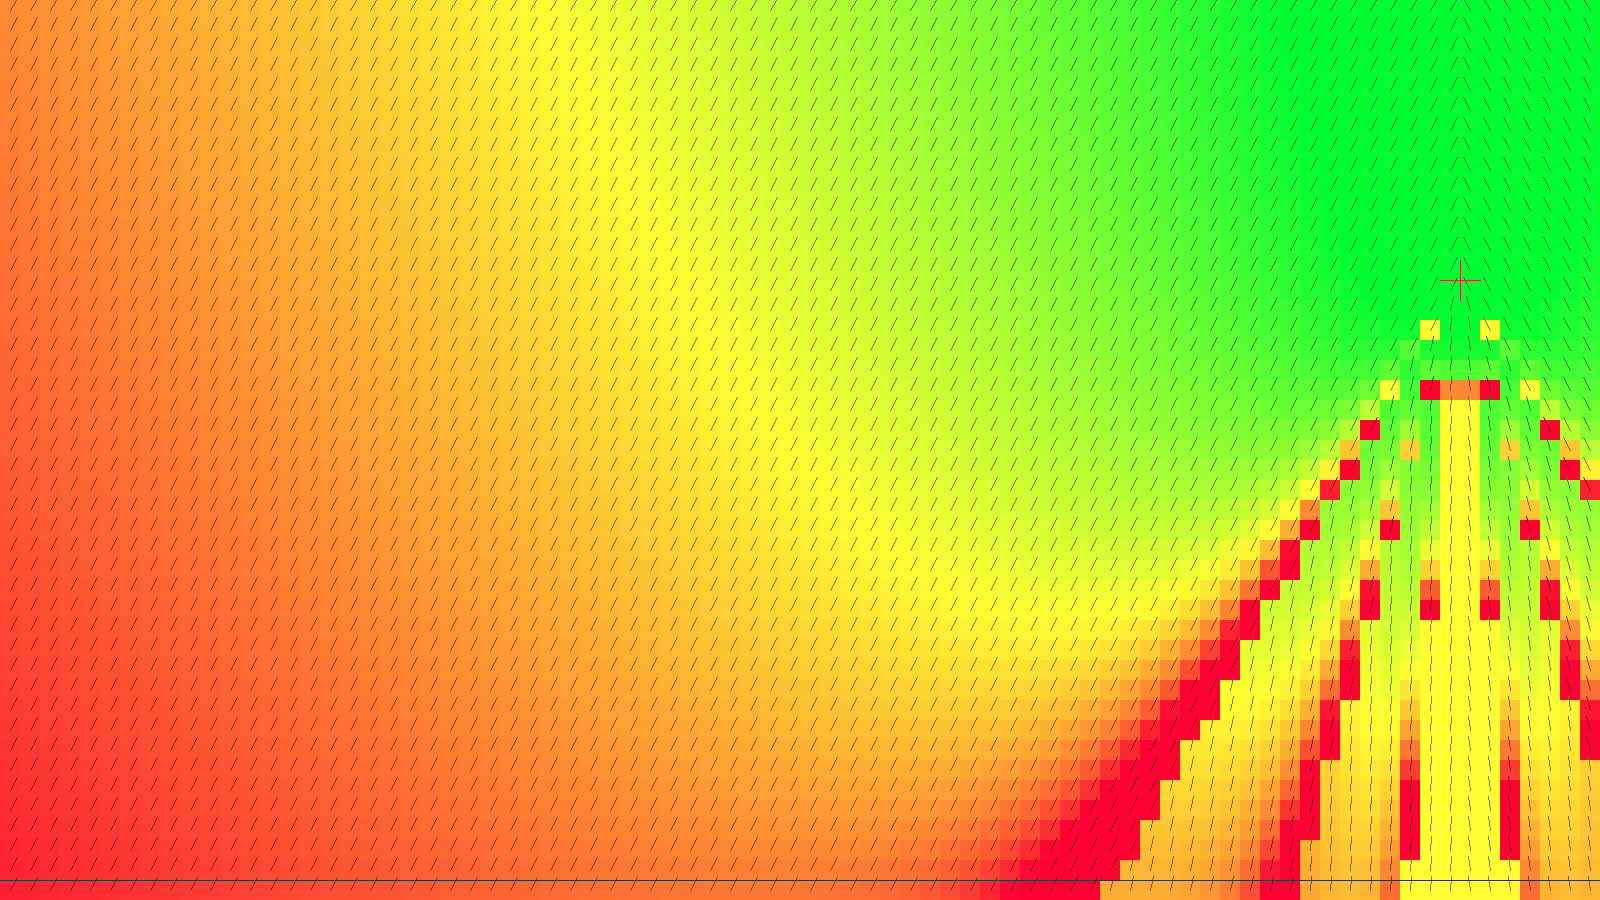
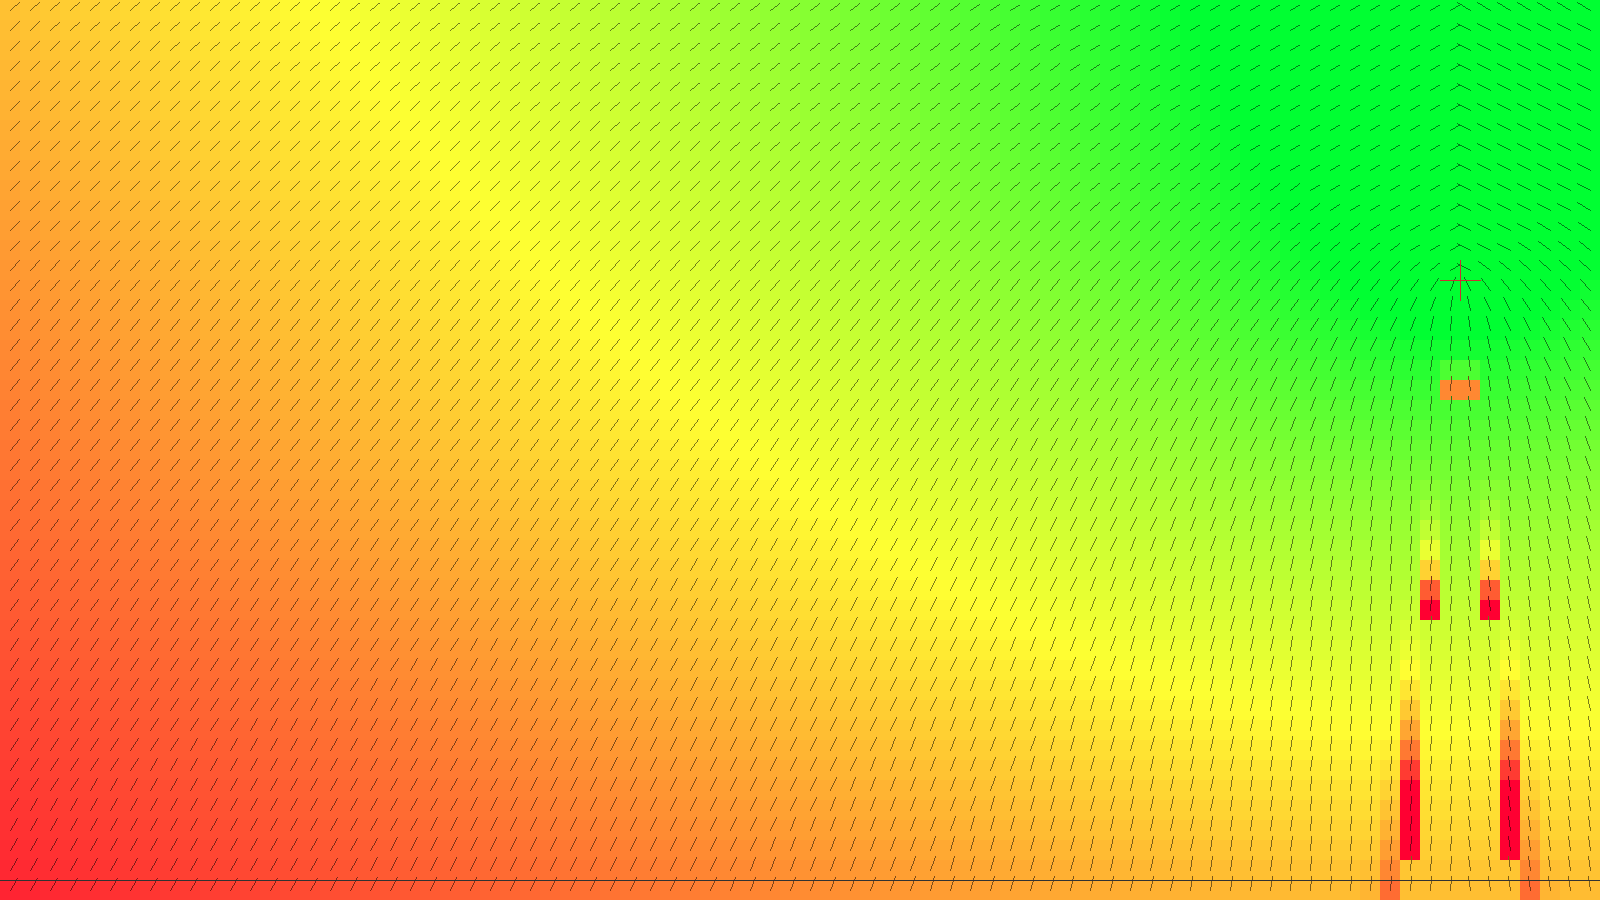
shooting feels good

diff --git a/src/lib.rs b/src/lib.rs
@@ -108,34 +108,26 @@ pub fn calculate_shot_trajectory(
         });
     }
 
-    // Choose a preferred elevation angle (60° gives nice arc)
-    let elevation = 60.0_f32.to_radians();
+    // Calculate optimal angle for minimum energy trajectory
+    // θ = atan2(dy + sqrt(dx² + dy²), dx)
+    let distance_to_target = (dx * dx + ty * ty).sqrt();
+    let optimal_elevation = (ty + distance_to_target).atan2(dx);
+
+    // Clamp to reasonable range (don't go below ~30° or above ~85°)
+    let min_angle = 30.0_f32.to_radians();
+    let max_angle = 85.0_f32.to_radians();
+    let final_elevation = optimal_elevation.clamp(min_angle, max_angle);
 
     // Calculate required speed: v² = g*dx² / (2*cos²(θ)*(dx*tan(θ) - dy))
-    let cos_e = elevation.cos();
-    let tan_e = elevation.tan();
+    let cos_e = final_elevation.cos();
+    let tan_e = final_elevation.tan();
     let denominator = 2.0 * cos_e * cos_e * (dx * tan_e - ty);
 
-    // If denominator <= 0, angle is too low to reach target height
-    // Try a higher angle
-    let (final_elevation, required_speed) = if denominator <= 0.0 {
-        // Need steeper angle - try 75°
-        let steep = 75.0_f32.to_radians();
-        let cos_s = steep.cos();
-        let tan_s = steep.tan();
-        let denom2 = 2.0 * cos_s * cos_s * (dx * tan_s - ty);
-        if denom2 <= 0.0 {
-            // Even 75° can't reach - use near-vertical
-            let very_steep = 85.0_f32.to_radians();
-            let cos_vs = very_steep.cos();
-            let tan_vs = very_steep.tan();
-            let denom3 = 2.0 * cos_vs * cos_vs * (dx * tan_vs - ty);
-            (very_steep, (gravity * dx * dx / denom3).sqrt())
-        } else {
-            (steep, (gravity * dx * dx / denom2).sqrt())
-        }
+    let required_speed = if denominator > 0.0 {
+        (gravity * dx * dx / denominator).sqrt()
     } else {
-        (elevation, (gravity * dx * dx / denominator).sqrt())
+        // Fallback for edge cases (nearly vertical)
+        (2.0 * gravity * ty.abs()).sqrt()
     };
 
     // Convert elevation to absolute angle based on target direction
